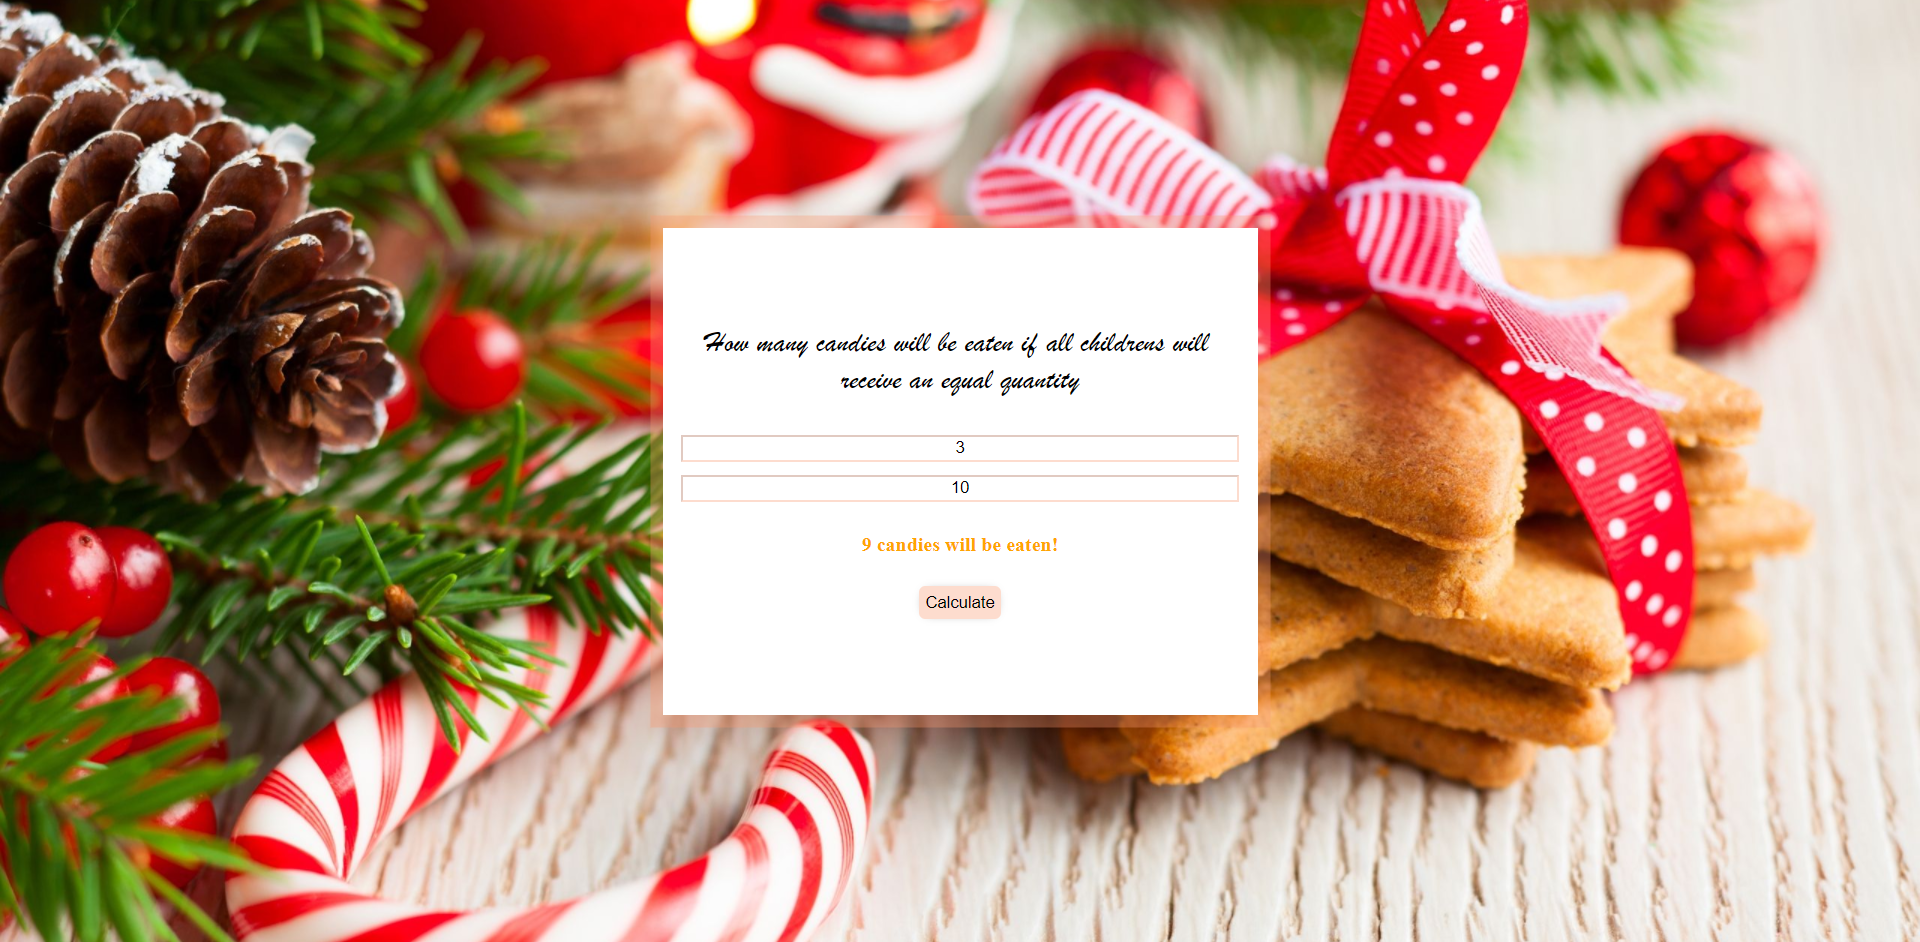
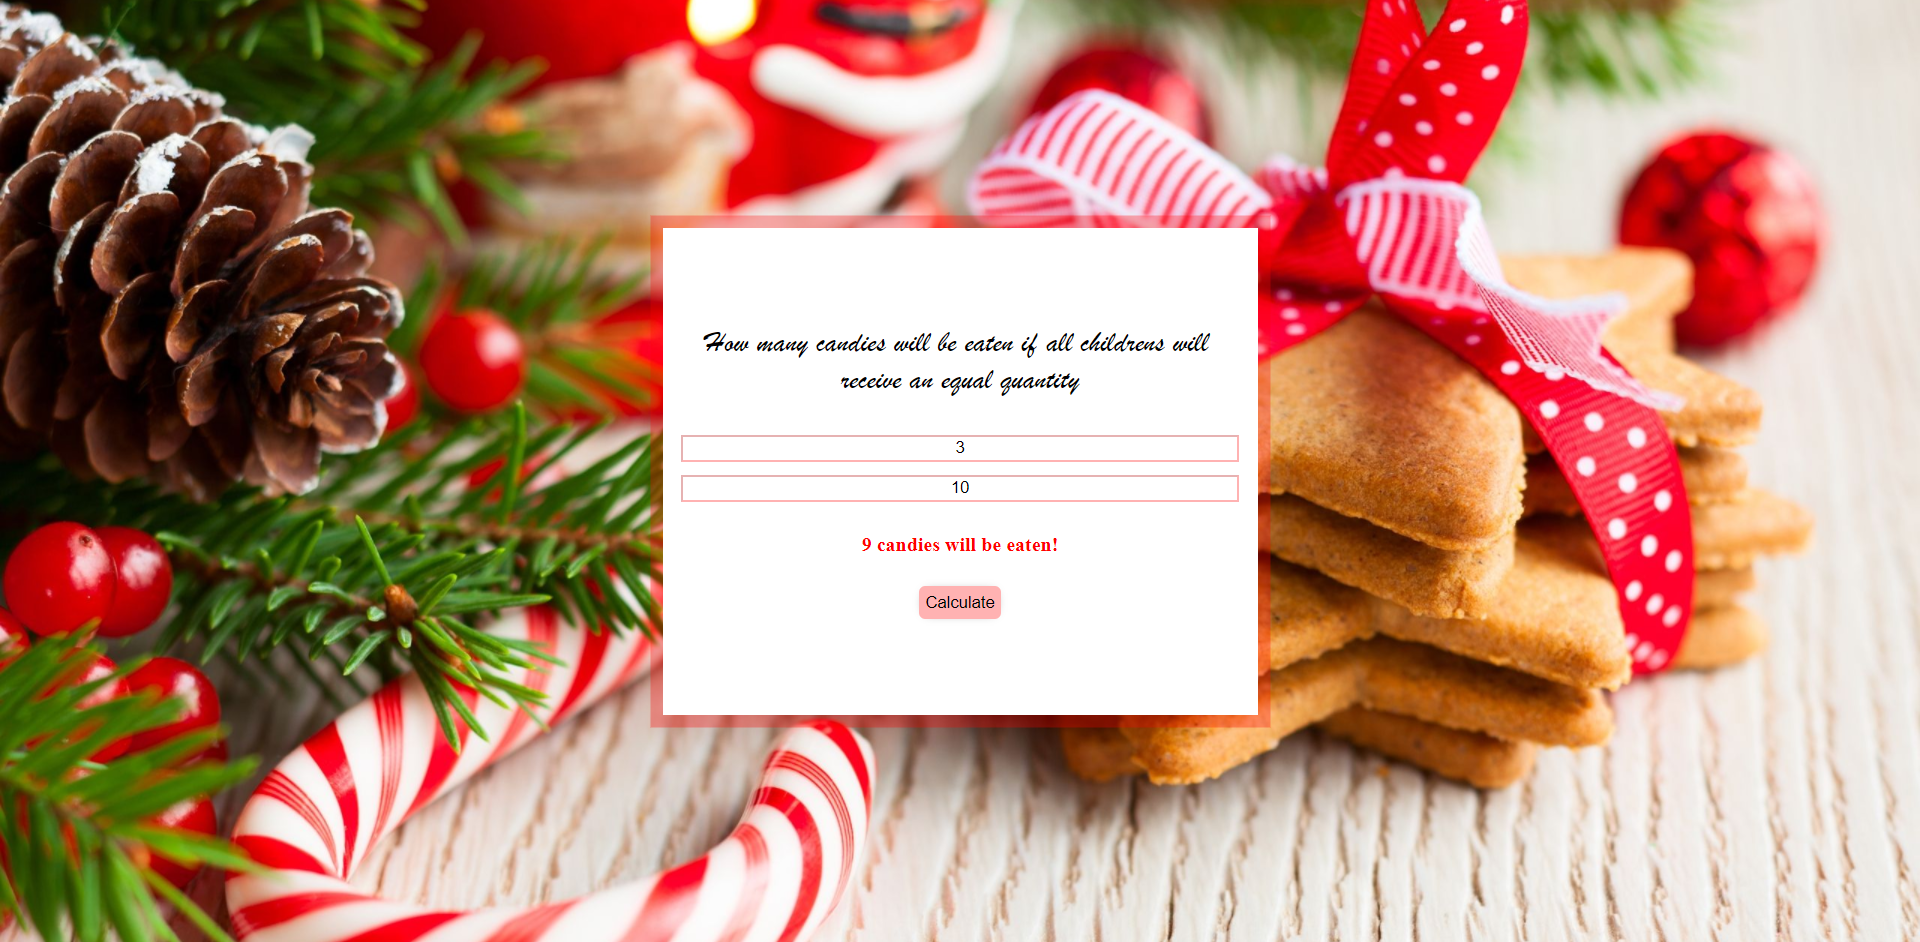
2 done

diff --git a/02 - Deposit Profit/index.html b/02 - Deposit Profit/index.html
@@ -4,9 +4,22 @@
     <title>Day 2 - Deposit Profit</title>
   </head>
   <body>
-    <!-- Find out how long it would take for your balance to pass a specific treshold with the assumption that you don't make any additional deposit -->
+    <div class="content">
+      <p>how long it would take for your get your dream gift?</p>
+      <input type="text" id="deposit" placeholder="Deposit" />
+      <input type="text" id="rate" placeholder="Rate" />
+      <input type="text" id="threshold" placeholder="Threshold" />
+      <div id="answer"></div>
+      <button class="calculate-button" onclick="depositProfit()">
+        Calculate
+      </button>
+    </div>
     <script>
-      function depositProfit(deposit, rate, threshold) {
+      function depositProfit() {
+        const deposit = document.getElementById("deposit").value;
+        const rate = document.getElementById("rate").value;
+        const threshold = document.getElementById("threshold").value;
+
         let sum = deposit;
         let years = 0;
 
@@ -14,7 +27,10 @@
           sum = sum + (sum * 20) / 100;
           years++;
         }
-        return years;
+
+        document.getElementById(
+          "answer"
+        ).innerHTML = `It wil take you ${years} years!`;
       }
     </script>
   </body>

diff --git a/02 - Deposit Profit/styles.css b/02 - Deposit Profit/styles.css
@@ -1,0 +1,47 @@
+body {
+    background: url(bg.jpg);
+    background-size: cover;
+    background-position: center;
+    display: flex;
+  }
+  .content {
+    text-align-last: center;
+    background: white;
+    margin: auto;
+    width: 30%;
+    box-shadow: 0px 0px 0px 10px #d7774c5c;
+    height: 50%;
+    display: flex;
+    flex-flow: column;
+    padding: 10px;
+    justify-content: center;
+    align-items: center;
+  }
+  p {
+    font-family: "Brush Script MT";
+    font-size: 1.5rem;
+    margin: 24px;
+  }
+  .calculate-button {
+      margin: 24px;
+      width: fit-content;
+      padding: 5px;
+      border-radius: 5px;
+      border: none;
+      cursor: pointer;
+      box-shadow: 0px 0px 8px -6px black;
+      background-color: #d7774c5c;
+  }
+  .calculate-button:hover {
+      background-color: #d7774c;
+  }
+  input {
+      border-color: #d7774c5c;
+      margin: 5px;
+      width: -webkit-fill-available;
+  }
+  #answer {
+      margin-top: 20px;
+      font-weight: bold;
+      color: #d7774c;
+  }

diff --git a/01 - Candies/styles.css b/01 - Candies/styles.css
@@ -9,7 +9,7 @@ body {
   background: white;
   margin: auto;
   width: 30%;
-  box-shadow: 0px 0px 0px 10px #fa996e57;
+  box-shadow: 0px 0px 0px 10px #ff00004d;
   height: 50%;
   display: flex;
   flex-flow: column;
@@ -30,18 +30,18 @@ p {
     border: none;
     cursor: pointer;
     box-shadow: 0px 0px 8px -6px black;
-    background-color: #fa996e57;
+    background-color: #ff00004d;
 }
 .calculate-button:hover {
-    background-color: #fa996e9c;
+    background-color: #ff0000;
 }
 input {
-    border-color: #fa996e57;
+    border-color: #ff00004d;
     margin: 5px;
     width: -webkit-fill-available;
 }
 #answer {
     margin-top: 20px;
     font-weight: bold;
-    color: orange;
+    color: #ff0000;
 }
